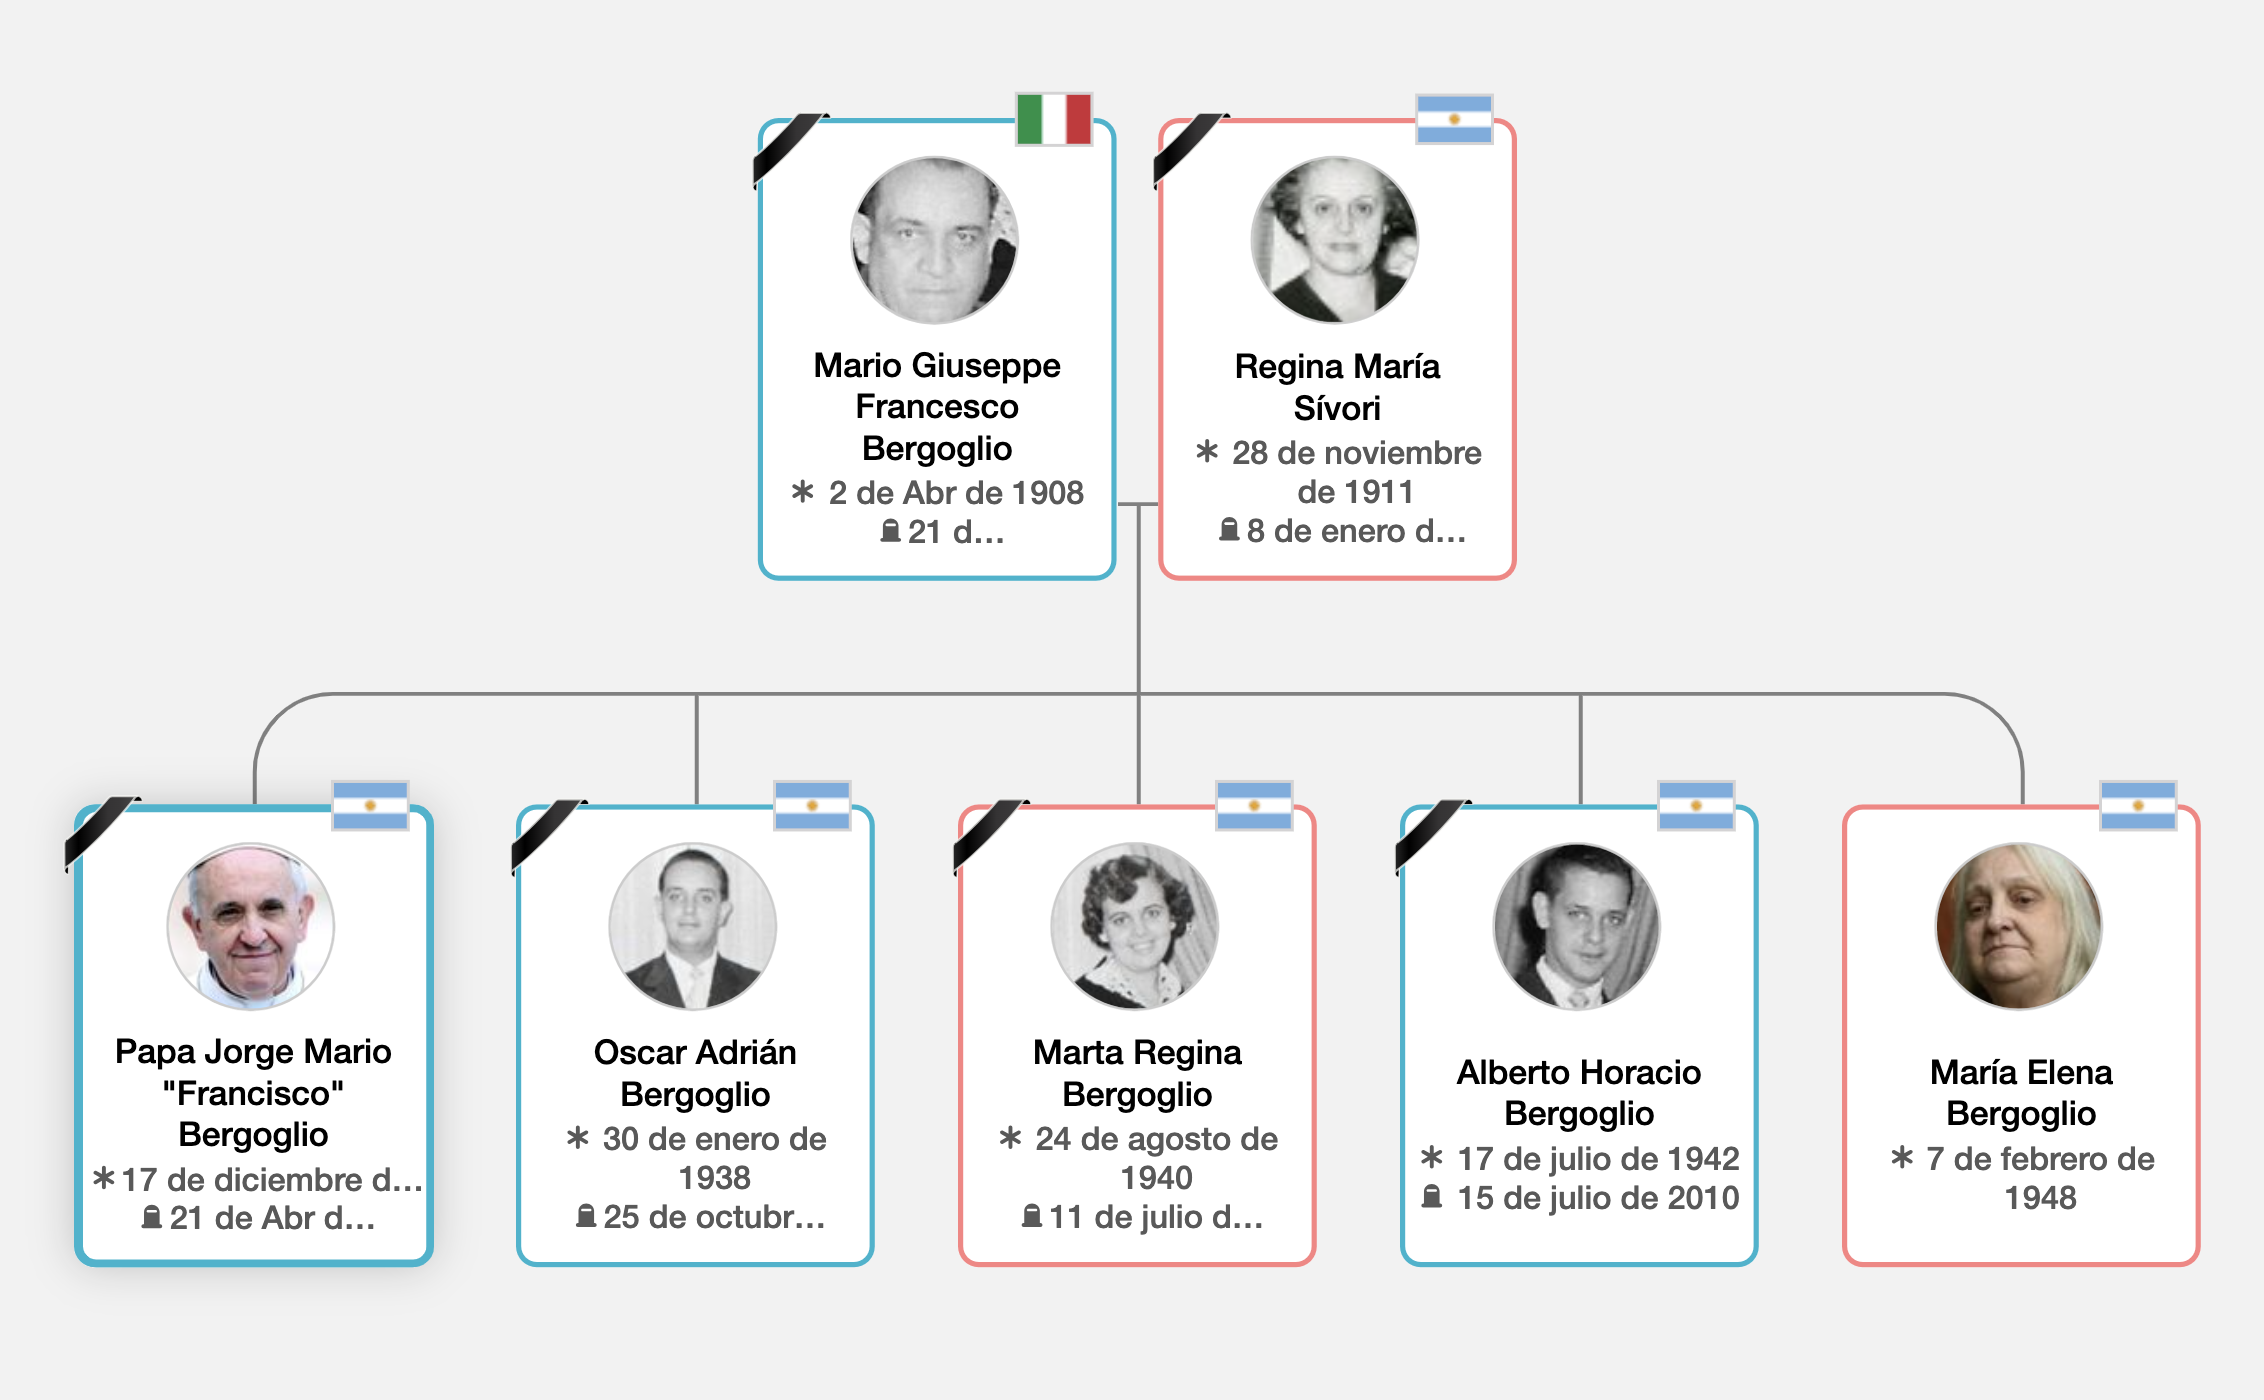
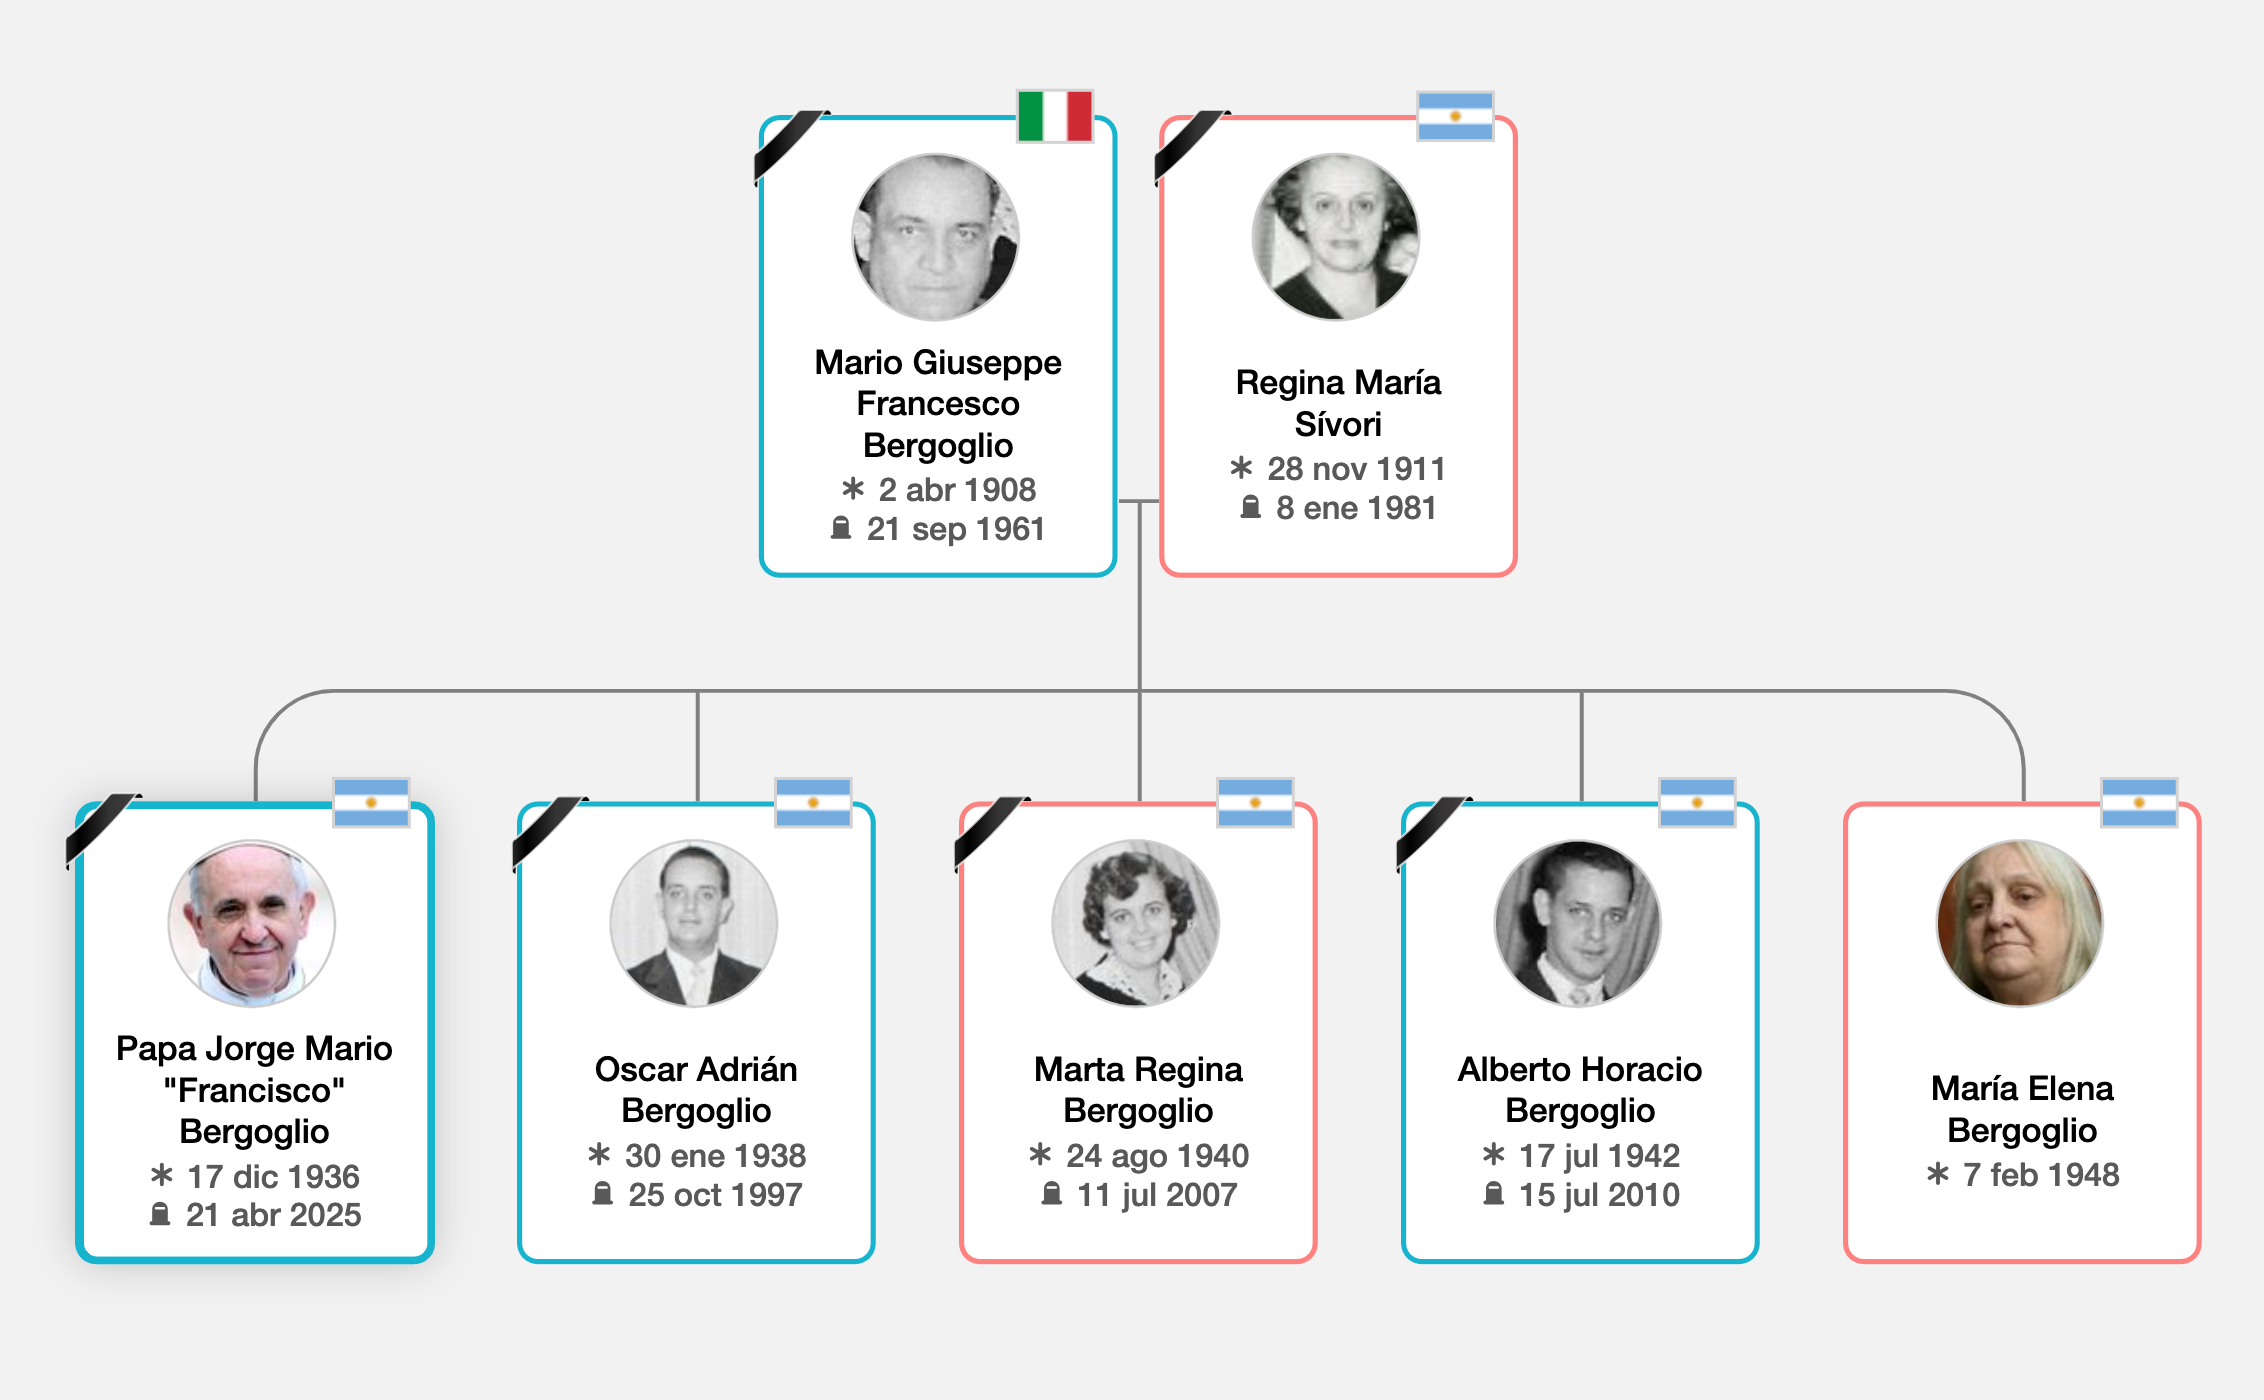
Add README.es.md

diff --git a/README.md b/README.md
@@ -1,6 +1,9 @@
 # MyHeritage Scripts
 
-CSS and JS scripts to improve visualization of [MyHeritage](https://www.myheritage.com/) family tree.
+CSS and JavaScript enhancements to improve the visualization of your [MyHeritage](https://www.myheritage.com/) family tree.
+
+### 🌍 Available languages:
+- [Español](README.es.md)
 
 ## 📸 Screenshot
 
@@ -8,28 +11,28 @@ CSS and JS scripts to improve visualization of [MyHeritage](https://www.myherita
 
 ## 🚀 Installation
 
-Custom CSS can be imported using [**Stylus**](https://github.com/openstyles/stylus) browser extension.
+Custom CSS can be applied using the [**Stylus**](https://github.com/openstyles/stylus) browser extension.
 
-Custom JS can be imported using [**Tampermonkey**](https://www.tampermonkey.net/) browser extension or similar.
+Custom JavaScript can be run using [**Tampermonkey**](https://www.tampermonkey.net/) or a similar user script manager.
 
-Once these extensions are instaled, another way of importing the styles/scripts is by accessing to:
+Once you have these extensions installed, another way to import the styles and scripts is through:
 
 - CSS: https://userstyles.world/user/ciricuervo
 - JS: https://greasyfork.org/en/users/1488542-ciricuervo?language=js
 
-## 📜 Scripts
+## 📜 Available Scripts
 
 ### CSS
 
 - Clean view
-- No gray balloons
-- No search bar
-- Font weight
-- Line weight
-- No DNA offer / notification
-- No country flags
+- Remove gray balloons
+- Hide search bar
+- Adjust font weight
+- Adjust line thickness
+- Hide DNA offers/notifications
+- Hide country flags
 
-### JS
+### JavaScript
 
-- Country flags injector
-- Names and dates abbreviator
+- Country flag injector
+- Name and date abbreviator

diff --git a/README.es.md b/README.es.md
@@ -1,0 +1,38 @@
+# Scripts para MyHeritage
+
+Scripts en CSS y JS para mejorar la visualización del árbol genealógico en [MyHeritage](https://www.myheritage.com/).
+
+### 🌍 Idiomas disponibles:
+- [English](README.md)
+
+## 📸 Captura de pantalla
+
+![screenshot](/papa-francisco.png?raw=true)
+
+## 🚀 Instalación
+
+El CSS personalizado se puede importar usando la extensión de navegador [**Stylus**](https://github.com/openstyles/stylus).
+
+El JS personalizado se puede importar usando la extensión [**Tampermonkey**](https://www.tampermonkey.net/) o alguna similar.
+
+Una vez instaladas estas extensiones, otra forma de importar los estilos o scripts es accediendo a:
+
+- CSS: https://userstyles.world/user/ciricuervo
+- JS: https://greasyfork.org/en/users/1488542-ciricuervo?language=js
+
+## 📜 Scripts
+
+### CSS
+
+- Vista limpia
+- Sin globos grises
+- Sin barra de búsqueda
+- Grosor de fuente
+- Grosor de líneas
+- Ocultar oferta de ADN / notificación
+- Ocultar banderas de países
+
+### JS
+
+- Inyector de banderas de países
+- Abreviador de nombres y fechas
